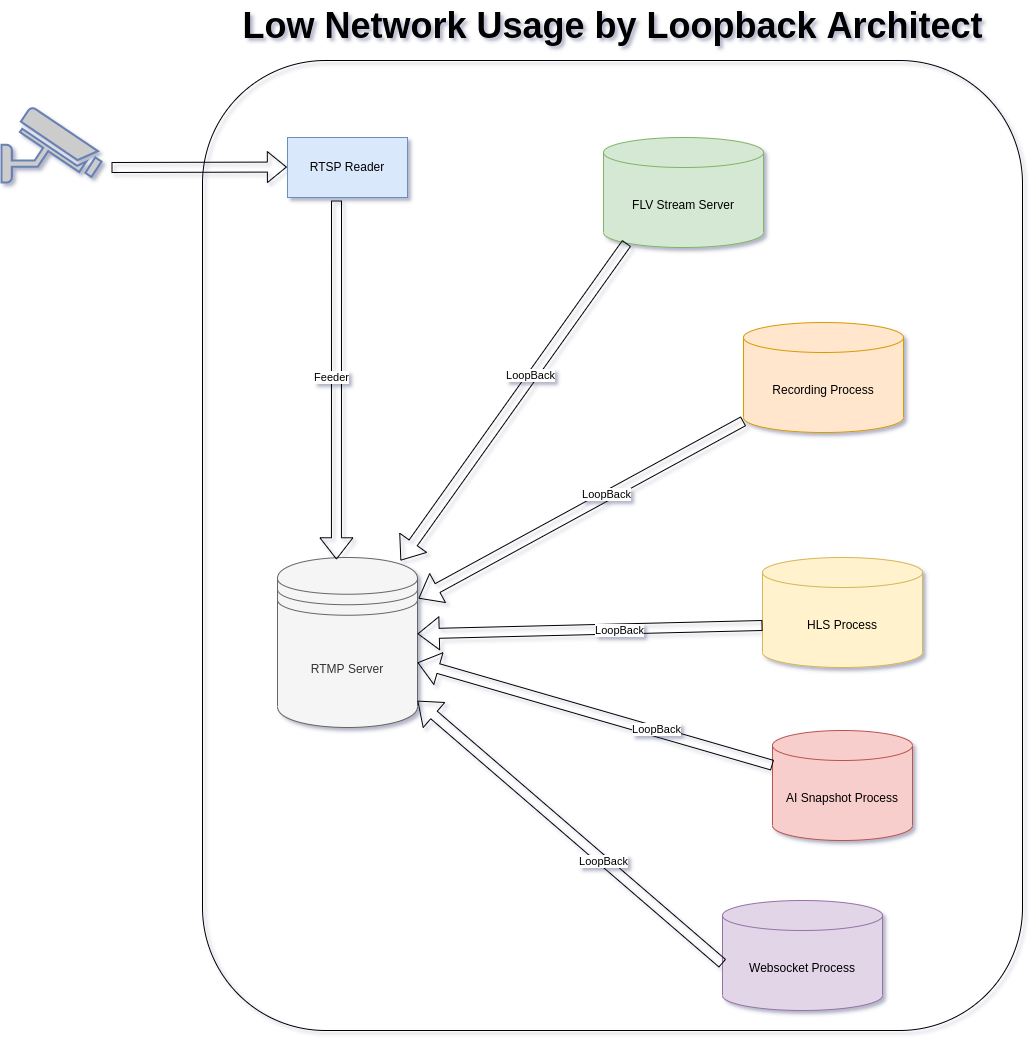
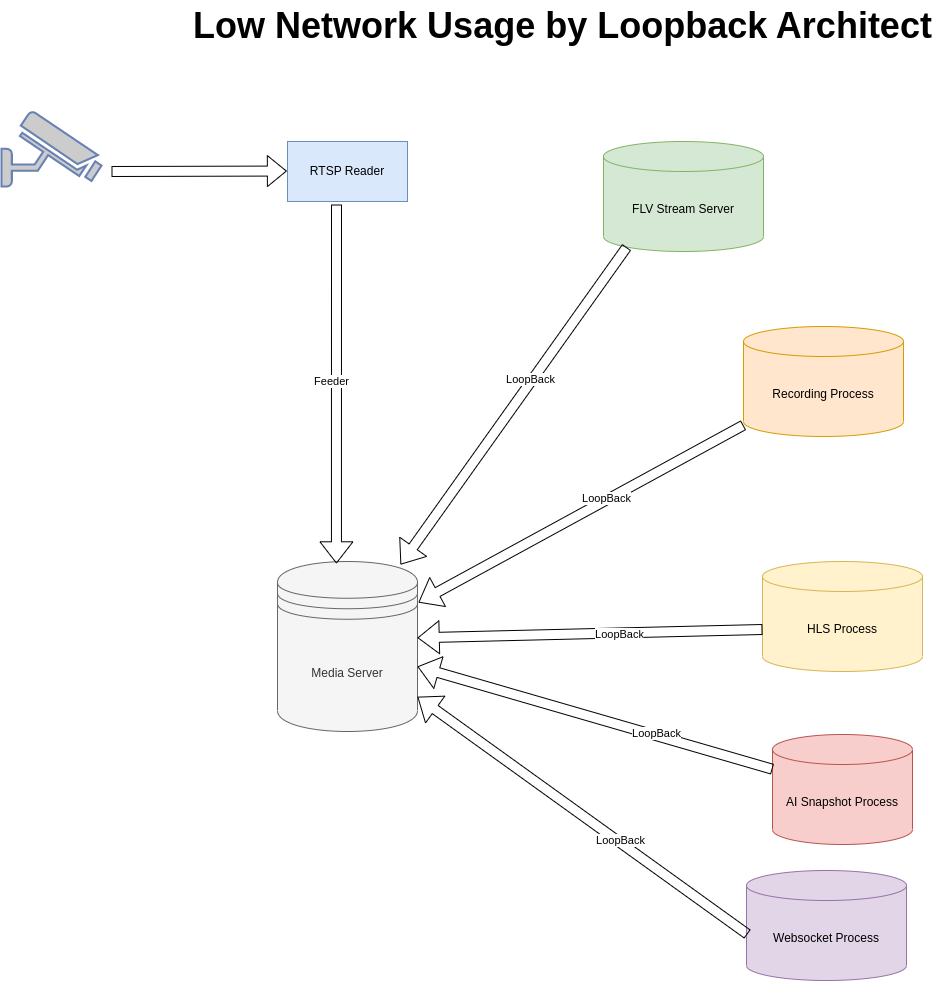
Adds H265 support

diff --git a/README.md b/README.md
@@ -5,6 +5,7 @@
 # Feniks - A computer based NVR with AI capabilities 
 * Connect any source FFmpeg supports and start streaming with low latency. 
 * Record your streams 7/24. 
+* Supports H265.
 * Detect 80 different objects, recognizes human faces and car plates. 
 * Query your AI data fast & easy by date, time, camera, label, score and color.
 * If you want more, develop your own custom AI service and easily integrate with Feniks. 
@@ -97,10 +98,11 @@
     | FLV         |  *     |  *     | ****   |
     | HLS         |  *     |  ***** | *****  |
     | WebSockets  |  ***** |  *     | *****  |
+    | WebRTC      |  * |  *     | ****  |
    
 * Supported video codecs for both streaming and recording are:
     * H.264 (Software, VA-API, NVIDIA, INTEL, RASPBERRY PI)
-    * H.265 (Software, VA-API, NVIDIA, INTEL, streaming is not supported since browsers and  RTMP servers don’t support HEVC hardware decoding)
+    * H.265 (Software, VA-API, NVIDIA, INTEL, HEVC streaming is supported thanks to [go2rtc](https://github.com/AlexxIT/go2rtc))
     * AV1 (Software, VA-API, NVIDIA, INTEL)
     * VP8 (Software, VA-API, NVIDIA, INTEL)
     * VP9 (Software, VA-API, NVIDIA, INTEL)
@@ -115,6 +117,12 @@
 * Supported Video Container Formats:
     * MP4
     * WebM
+
+* Supported Media Servers:
+    * [go2rtc](https://github.com/AlexxIT/go2rtc) (H265 & H264). If you are unable to play H.265 streams or video records on your browser, please check out this [link](https://github.com/StaZhu/enable-chromium-hevc-hardware-decoding).
+    * [SRS](https://github.com/ossrs/srs) (H264)
+    * [LiveGo](https://github.com/gwuhaolin/livego) (H264)
+    * [Node Media Server](https://github.com/illuspas/Node-Media-Server) (H264)
    
 * All AI events (Object Detection, Face Recognition, Plate Recognition) can be queried by date, time, camera, label and score. All those fields are all indexed and saved as denormalized entities to provide best read performance even for big data.
 
@@ -127,15 +135,14 @@
     * Imagehash:  good accuracy and high performance. It is suitable for low cost  devices like Raspberry PI or Jetson Nano 
     * PSNR: Similar to Imagehash
 
-* Re-streaming via RTMP to reduce the number of connections to your camera
+* Re-streaming via media server to reduce the number of connections to your camera
     <img src="gallery/loopback_arc.png" />
     
 
 **Currently Developing Features List (Ordered By Release Date)**
-1. H265 and [go2rtc](https://github.com/AlexxIT/go2rtc) support is comming.  
-2. Positive/negative list support for facial recognition.
-3. Adding camera location info registration support by Google Maps.
-4. Adding Amazon S3, Microsoft OneDrive and Dropbox support as cloud providers.
-5. Making ONVIF support more compatible and superior like adding PTZ (Pan-Tilt-Zoom Support for Cameras) support.
-6. Adding Tensorflow/PyTorch Pose Estimation deep-learning models.
-7. Adding Windows support.
+1. Positive/negative list support for facial recognition.
+2. Adding camera location info registration support by Google Maps.
+3. Adding Amazon S3, Microsoft OneDrive and Dropbox support as cloud providers.
+4. Making ONVIF support more compatible and superior like adding PTZ (Pan-Tilt-Zoom Support for Cameras) support.
+5. Adding Tensorflow/PyTorch Pose Estimation deep-learning models.
+6. Adding Windows support.
